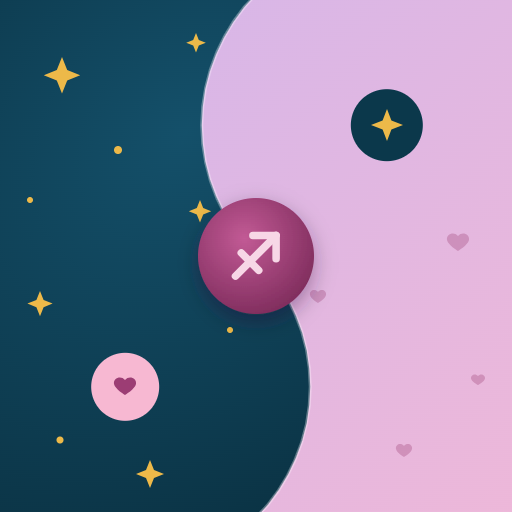
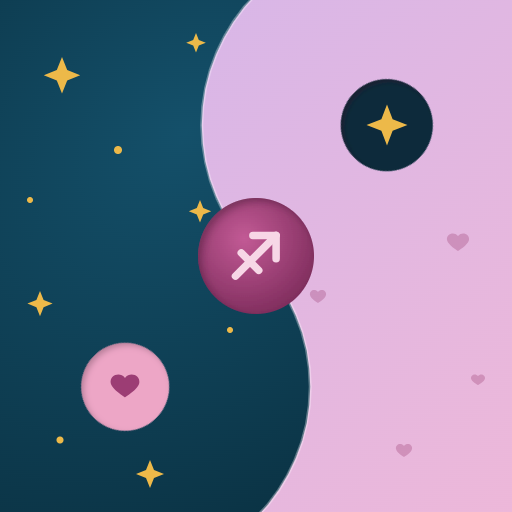
0.1.95: іконка — точки й сургуч ледь утоплені, точки більші

diff --git a/js/version.js b/js/version.js
@@ -1,5 +1,5 @@
 // Версія і «Что нового»: при кожному випуску — новий рядок угорі й новий VERSION
-export const VERSION = '0.1.94';
+export const VERSION = '0.1.95';
 
 export const NEWS = [
   ['0.1.93', 'Иконка — чистый инь-янь двух половин: ночь со звёздами и пудра с сердечками, в каждой — точка другой, Стрелец посередине.'],
